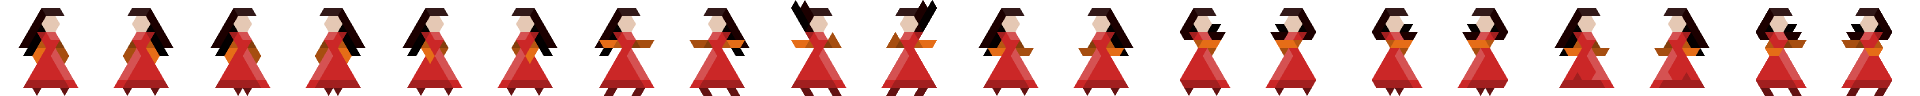
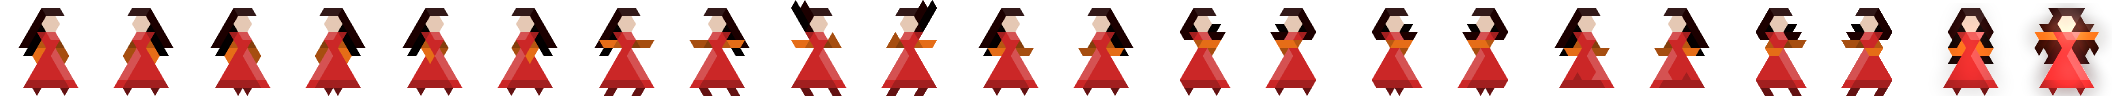
Player explosion on overload!

diff --git a/src/Player.js b/src/Player.js
@@ -29,8 +29,13 @@ var Player = function(game) {
     this.FIRING_RECOIL_Y = -200;
     this.FIRING_RECOIL_X = 450;
     this.FIRING_FPS = 6;
-    this.OVERLOAD_AMT_FIREBALL = 10;
+
+    this.OVERLOAD_AMT_FIREBALL = 20;
     this.EXPLOSION_MISSILE_AMT = NUM_OF_MISSILES / 1.5;
+    this.EXPLOSION_FPS = 4;
+    this.explosionTime = 0;
+    this.exploded = false;
+    this.canExplode = true;
 
     this.JUMP_SPEED = -700;
     this.JUMP_AMOUNT = 3;
@@ -81,6 +86,7 @@ Player.prototype = {
         this.sprite.animations.add("firewalkleft", [11, 15], this.FIRING_FPS, false);
         this.sprite.animations.add("firejumpright", [16, 18], this.FIRING_FPS, false);
         this.sprite.animations.add("firejumpleft", [17, 19], this.FIRING_FPS, false);
+        this.sprite.animations.add("explode", [20, 21], this.EXPLOSION_FPS, false);
 
         this.game.physics.enable(this.sprite, Phaser.Physics.ARCADE);
         this.sprite.body.maxVelocity.setTo(MAX_VEL, MAX_VEL);
@@ -95,11 +101,16 @@ Player.prototype = {
     update: function(layer) {
         this.game.physics.arcade.collide(this.sprite, layer);
         this.updateInput();
+        this.updateHUD();
         this.updateAnimation();
         this.updateEmitters();
     },
 
     updateInput: function() {
+        if (this.game.time.now < this.explosionTime) {
+            return;
+        }
+
         var speed = this.WALK_SPEED;
         if (input.pressedRun() && this.onFloor) {
             speed = this.RUN_SPEED;
@@ -176,15 +187,31 @@ Player.prototype = {
 
         if (this.overload > this.OVERLOAD_CAP) {
             this.overload = 0;
-            this.explode();
+            this.explodeAnim();
         }
+    },
 
+    updateHUD: function() {
         this.game.hud.cropHealth(this.health / this.MAX_HEALTH);
         this.game.hud.cropJumps(this.jumps / this.JUMP_AMOUNT);
         this.game.hud.cropOverload(this.overload / this.OVERLOAD_CAP);
     },
 
     updateAnimation: function() {
+        if (this.game.time.now < this.explosionTime && !this.exploded) {
+            this.exploded = true;
+            this.sprite.animations.play("explode");
+        } else if (this.game.time.now < this.explosionTime) {
+            if (this.game.time.now > this.explosionTime - 1000 / this.EXPLOSION_FPS * 0.5 && this.canExplode) {
+                this.explode();
+                this.canExplode = false;
+            }
+            return;
+        } else if (this.exploded) {
+            this.exploded = false;
+            this.canExplode = true;
+            this.sprite.body.gravity.y = 0;
+        }
         if (this.onFloor) {
             if (this.isMoving) {
                 if (this.isRunning) {
@@ -226,12 +253,22 @@ Player.prototype = {
         this.emitterJump.y = this.sprite.y + this.sprite.height;
     },
 
+    explodeAnim: function() {
+        this.sprite.body.velocity.x = 0;
+        this.sprite.body.velocity.y = 0;
+        this.sprite.body.gravity.y = -GRAVITY;
+        this.explosionTime = this.game.time.now + 1000 / this.EXPLOSION_FPS * 2;
+        this.exploded = false;
+        audio.sfxPExplode.play();
+    },
+
     explode: function() {
-        this.game.hud.showHealth(2000);
         this.health -= 10;
+        this.game.hud.showHealth(2000);
         for (var i = 0; i < this.EXPLOSION_MISSILE_AMT; i++) {
             var angle = 360 / this.EXPLOSION_MISSILE_AMT * i;
             launchMissile(angle, this.sprite.x + 66, this.sprite.y + 43);
         }
+        audio.sfxExplosion0.play();
     }
 };

diff --git a/src/Audio.js b/src/Audio.js
@@ -24,15 +24,17 @@ var Audio = function(game) {
     this.sfxFire1 = null;
     this.sfxJump0 = null;
     this.sfxJump1 = null;
+    this.sfxPExplode = null;
 };
 
 Audio.prototype = {
     create: function() {
-        this.sfxExplosion0 = this.game.add.audio("sfxExplosion0", 0.05);
-        this.sfxExplosion1 = this.game.add.audio("sfxExplosion1", 0.05);
+        this.sfxExplosion0 = this.game.add.audio("sfxExplosion0", 0.07);
+        this.sfxExplosion1 = this.game.add.audio("sfxExplosion1", 0.07);
         this.sfxFire0 = this.game.add.audio("sfxFire0", 0.05);
         this.sfxFire1 = this.game.add.audio("sfxFire1", 0.05);
         this.sfxJump0 = this.game.add.audio("sfxJump0", 0.05);
         this.sfxJump1 = this.game.add.audio("sfxJump1", 0.05);
+        this.sfxPExplode = this.game.add.audio("sfxPExplode", 0.08);
     }
 }

diff --git a/src/Load.js b/src/Load.js
@@ -63,6 +63,7 @@ Load.prototype = {
         this.load.audio("sfxExplosion1", "assets/sfx/explosion1.wav");
         this.load.audio("sfxJump0", "assets/sfx/jump.wav");
         this.load.audio("sfxJump1", "assets/sfx/jump1.wav");
+        this.load.audio("sfxPExplode", "assets/sfx/playerExplode.wav");
 
         this.load.audio("musTest", "assets/music/test.wav");
     },
